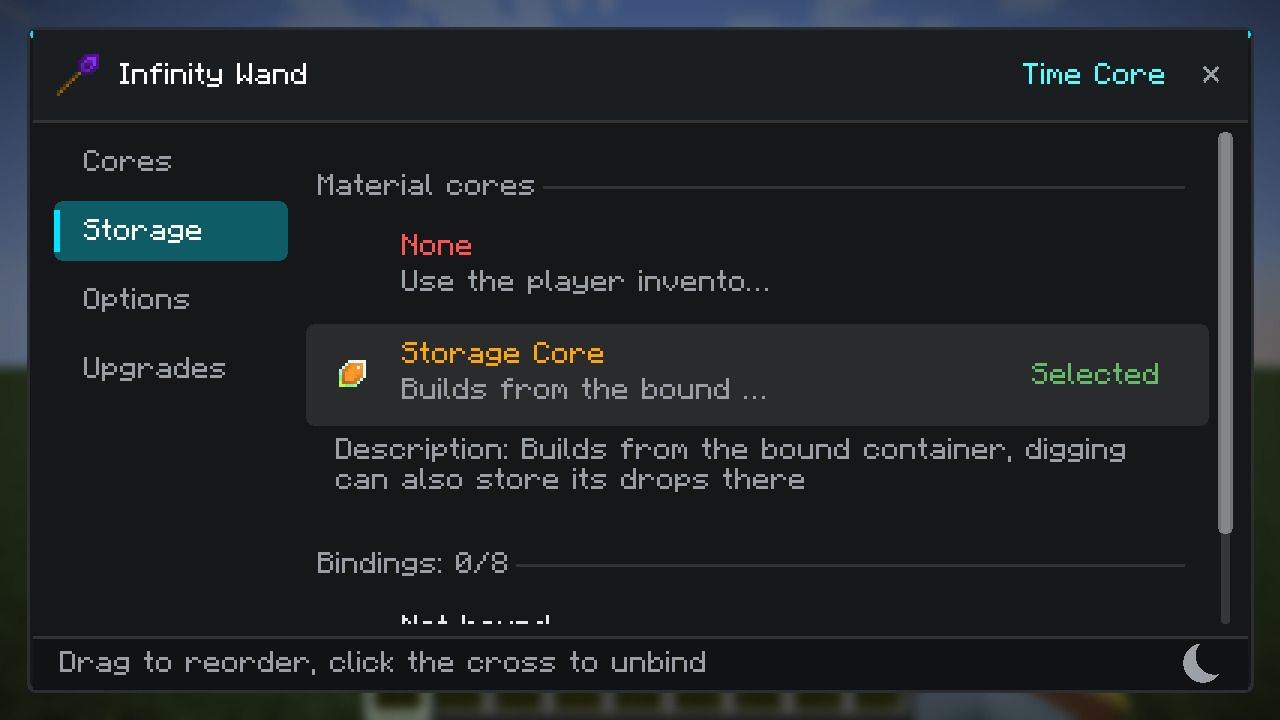
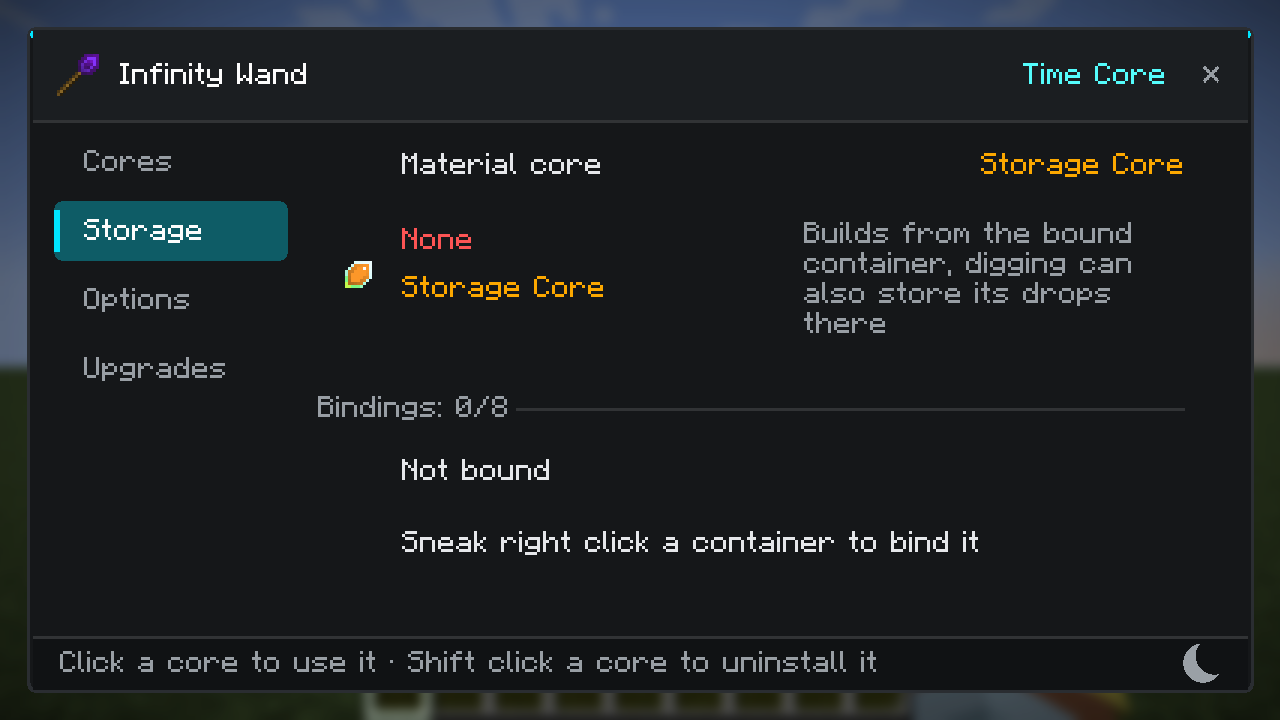
核心页/储存页改为「第一行只显示 + 下方左右两栏列表与描述」（v2.16.35）
- 新控件 WandRow.TwoColumn：左栏可点选的条目列表（图标 + 名字 + 高亮当前项），右栏自动折行的描述
- 核心页、储存页都改为该布局；第一行只显示当前核心，选择在列表里点
- 列表行高 16 以容纳图标，描述行高 10；右栏不响应点击
- 页脚提示新增 gui.hint.select（Click a core to use it / 左键点选核心）
- 截图更新 docs/wand-screen-cores.png、docs/wand-screen-storage.png

diff --git a/src/main/java/dev/polaris_light/constructionwand/client/ui/WandRow.java b/src/main/java/dev/polaris_light/constructionwand/client/ui/WandRow.java
@@ -1,8 +1,10 @@
 package dev.polaris_light.constructionwand.client.ui;
 
+import net.minecraft.client.Minecraft;
 import net.minecraft.client.gui.Font;
 import net.minecraft.client.gui.GuiGraphics;
 import net.minecraft.network.chat.Component;
+import net.minecraft.util.FormattedCharSequence;
 import net.minecraft.world.item.ItemStack;
 
 import javax.annotation.Nullable;
@@ -122,6 +124,92 @@ public abstract class WandRow
         return font.plainSubstrByWidth(value, Math.max(0, available - 6)) + "\u2026";
     }
 
+    /**
+     * A block that is split in two: a list to pick from on the left and the description of what is picked
+     * on the right. The usual label-and-value row cannot say that, so this row draws both columns itself
+     * and turns a click into the line it landed on.
+     */
+    public static class TwoColumn extends WandRow
+    {
+        /**
+         * @param icon     the icon of the entry, or {@code null} for one without
+         * @param label    what the entry is called
+         * @param selected whether it is the one in use, which is what the colour marks
+         */
+        public record Entry(@Nullable ItemStack icon, Component label, boolean selected) {
+        }
+
+        /** The list needs room for the icon of a line, the description does not. */
+        private static final int LIST_LINE = 16;
+        private static final int TEXT_LINE = 10;
+
+        private final List<Entry> entries;
+        private final Component description;
+        private final IntConsumer onSelect;
+
+        public TwoColumn(List<Entry> entries, Component description, IntConsumer onSelect) {
+            this.entries = entries;
+            this.description = description;
+            this.onSelect = onSelect;
+        }
+
+        private int listWidth() {
+            return Math.max(60, (width - 24) / 2);
+        }
+
+        private int descriptionX() {
+            return x + 12 + listWidth() + 16;
+        }
+
+        private int descriptionWidth() {
+            return Math.max(40, right() - descriptionX());
+        }
+
+        private List<FormattedCharSequence> descriptionLines(Font font) {
+            return font.split(description, descriptionWidth());
+        }
+
+        @Override
+        public int height() {
+            Font font = Minecraft.getInstance().font;
+            int list = entries.size() * LIST_LINE;
+            int text = descriptionLines(font).size() * TEXT_LINE;
+            return Math.max(list, text) + 8;
+        }
+
+        @Override
+        protected void renderRow(GuiGraphics graphics, Font font, int labelColor) {
+            int top = y + 4;
+            for(int index = 0; index < entries.size(); index++) {
+                Entry entry = entries.get(index);
+                int lineY = top + index * LIST_LINE;
+                if(entry.icon() != null && !entry.icon().isEmpty()) {
+                    graphics.renderItem(entry.icon(), x + 10, lineY - 4);
+                }
+                Ui.text(graphics, font, trim(font, entry.label(), listWidth() - 24), labelX(entry.icon()),
+                        lineY + 4, entry.selected() ? Ui.OK : Ui.TEXT);
+            }
+
+            int descriptionTop = y + 6;
+            for(FormattedCharSequence line : descriptionLines(font)) {
+                graphics.drawString(font, line, descriptionX(), descriptionTop, Ui.TEXT_DIM, false);
+                descriptionTop += TEXT_LINE;
+            }
+        }
+
+        @Override
+        public boolean mouseClicked(double mouseX, double mouseY, int button) {
+            if(button != 0 || !contains(mouseX, mouseY)) return false;
+            // The right half is the description, not a list; only the left column picks something.
+            if(mouseX >= descriptionX() - 8) return false;
+
+            int index = (int) ((mouseY - (y + 4)) / LIST_LINE);
+            if(index < 0 || index >= entries.size()) return false;
+
+            onSelect.accept(index);
+            return true;
+        }
+    }
     /**
      * A section heading inside the list, with the remaining width underlined once.
      */

diff --git a/src/main/java/dev/polaris_light/constructionwand/client/ScreenWand.java b/src/main/java/dev/polaris_light/constructionwand/client/ScreenWand.java
@@ -424,14 +424,9 @@ public class ScreenWand extends Screen
         // The list is the selector: every installed core is a row, and clicking one selects it. Cycling
         // through a value box needed as many clicks as the wanted core was far away in the order, which
         // stops working once a wand carries a handful of cores.
-        rows.add(new WandRow.Header(text("gui.section.core_list")));
-        addCoreList(wandOptions.cores);
-        rows.add(new WandRow.Paragraph(text("gui.status.description"),
-                translate(wandOptions.cores.getDescTranslation())));
-
-        rows.add(new WandRow.Header(text("gui.section.status")));
-        rows.add(new WandRow.Text(text("gui.status.behaviour"),
-                coreName(wandOptions.cores, wandOptions.cores.get()), Ui.TEXT, true, null));
+        rows.add(new WandRow.Text(text("gui.core.behaviour"),
+                coreName(wandOptions.cores, wandOptions.cores.get()), Ui.OK, false, null));
+        rows.add(corePicker(wandOptions.cores));
     }
 
     /**
@@ -439,10 +434,9 @@ public class ScreenWand extends Screen
      * to. The two belong together, a storage core without its bound containers has nothing to give.
      */
     private void buildStorage() {
-        rows.add(new WandRow.Header(text("gui.section.material_list")));
-        addCoreList(wandOptions.materialCores);
-        rows.add(new WandRow.Paragraph(text("gui.status.description"),
-                translate(wandOptions.materialCores.getDescTranslation())));
+        rows.add(new WandRow.Text(text("gui.core.material"),
+                coreName(wandOptions.materialCores, wandOptions.materialCores.get()), Ui.OK, false, null));
+        rows.add(corePicker(wandOptions.materialCores));
         buildBindings();
     }
 
@@ -450,14 +444,14 @@ public class ScreenWand extends Screen
      * One row per installed core, the chosen one marked. A shift click uninstalls that core, the hint in the
      * footer says so.
      */
-    private void addCoreList(WandUpgradesSelectable<IWandCore> option) {
+    private WandRow corePicker(WandUpgradesSelectable<IWandCore> option) {
         IWandCore selected = option.get();
+        List<WandRow.TwoColumn.Entry> entries = new ArrayList<>();
         for(IWandCore core : option.getUpgrades()) {
-            boolean chosen = core == selected;
-            rows.add(new WandRow.Cycle(coreIcon(core), coreName(option, core), coreDesc(option, core),
-                    chosen ? text("gui.selected") : Component.empty(), true,
-                    chosen ? null : text("gui.core.select_hint"), false, false, back -> selectCore(option, core)));
+            entries.add(new WandRow.TwoColumn.Entry(coreIcon(core), coreName(option, core), core == selected));
         }
+        return new WandRow.TwoColumn(entries, translate(option.getDescTranslation()),
+                index -> selectCore(option, option.getUpgrades().get(index)));
     }
 
     private void selectCore(WandUpgradesSelectable<IWandCore> option, IWandCore core) {
@@ -941,10 +935,9 @@ public class ScreenWand extends Screen
 
     private Component footerHint() {
         return switch(tab) {
-            case CORES -> text("gui.hint.change").copy().append(" · ").append(text("gui.hint.core_removable"));
+            case CORES, STORAGE -> text("gui.hint.select").copy().append(" · ").append(text("gui.hint.core_removable"));
             case OPTIONS -> text("gui.hint.change");
             case UPGRADES -> text("upgrade.toggle_hint");
-            case STORAGE -> isStorageCore() ? text("gui.hint.drag_remove") : text("gui.hint.world_bind");
         };
     }
 
